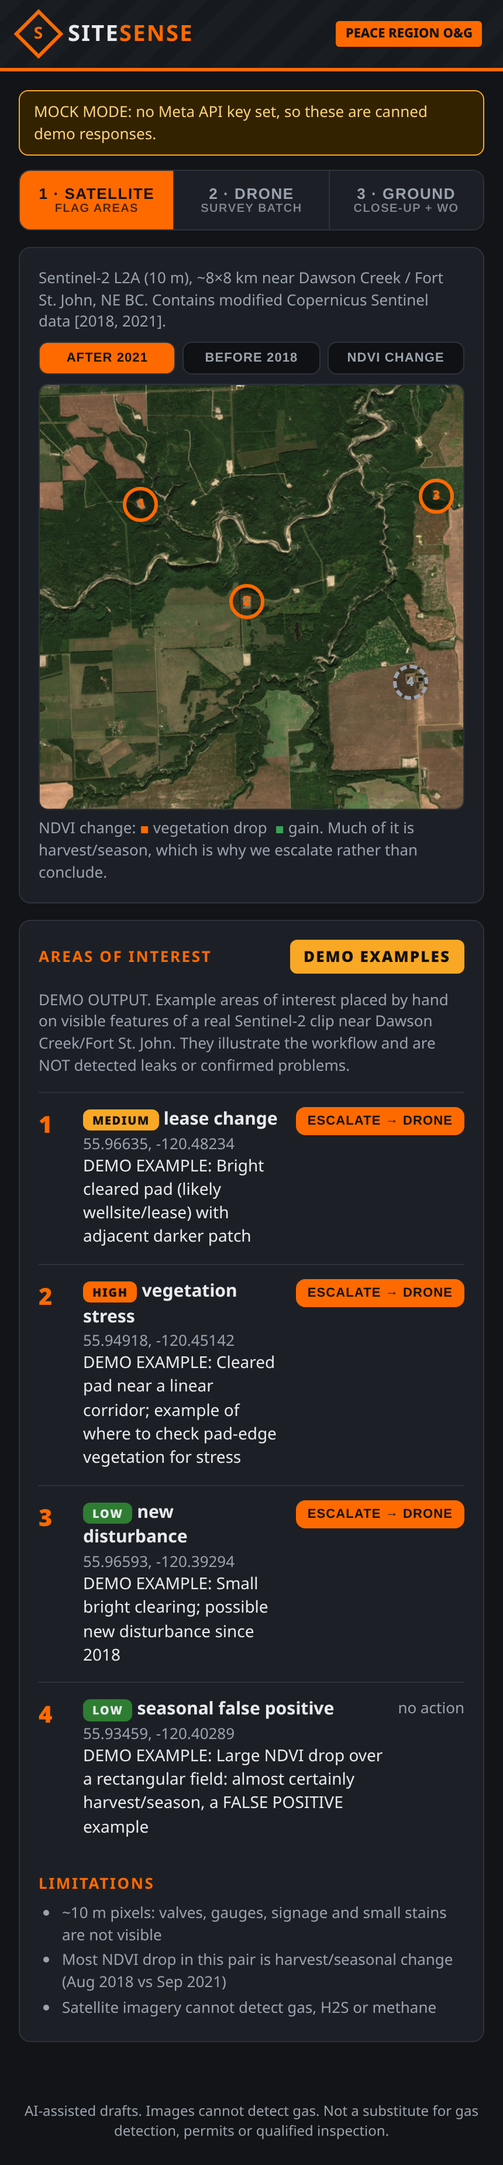
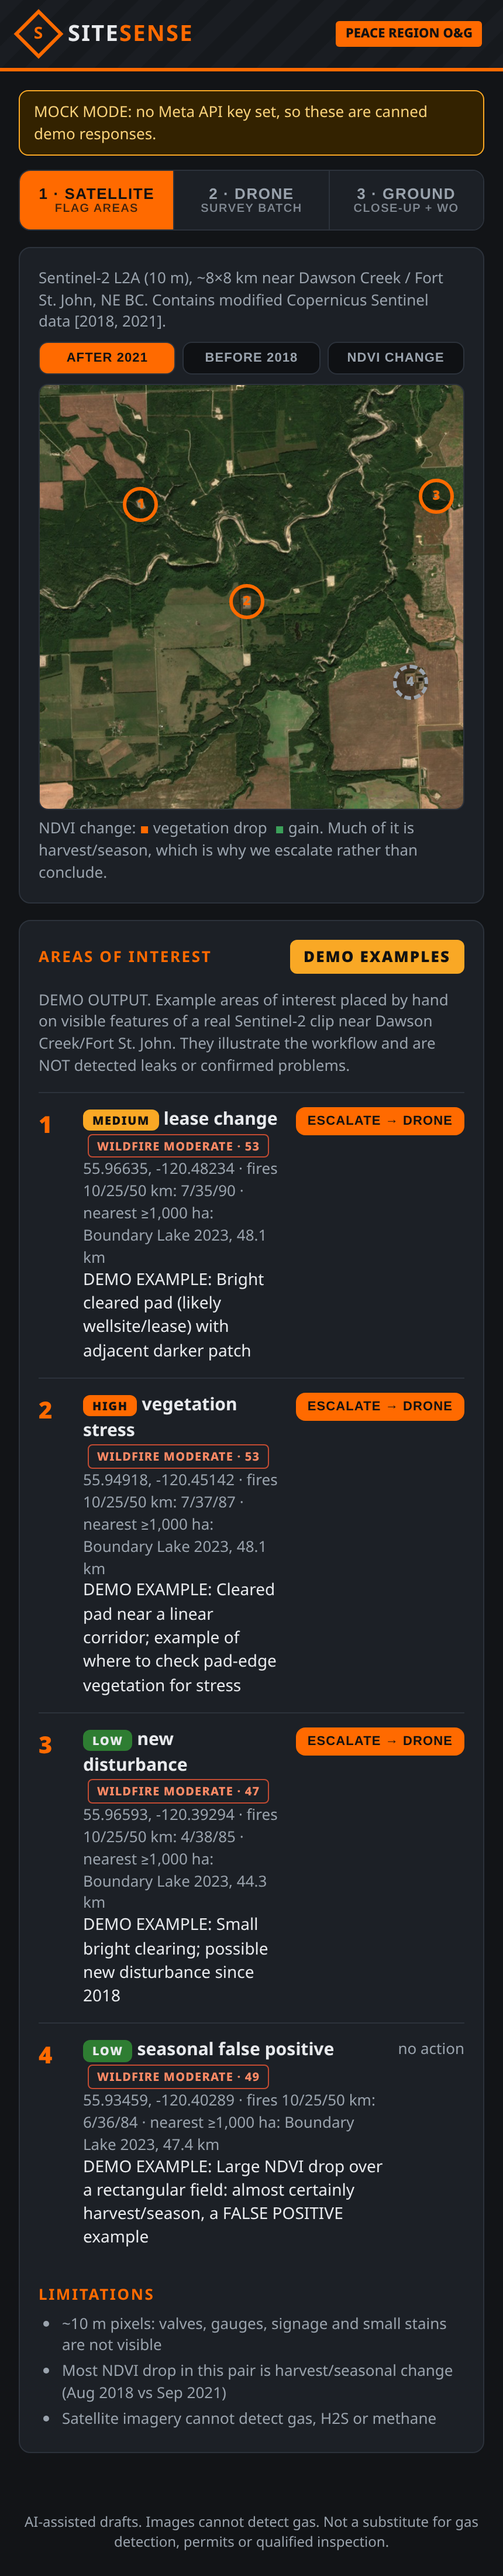
README: Emberline wildfire layer section; refresh screenshots

diff --git a/README.md b/README.md
@@ -99,6 +99,33 @@ pip install -r requirements-dev.txt
 pytest -q
 ```
 
+## Emberline wildfire layer
+
+SiteSense borrows the data and the per-town risk logic of **Emberline** (a BC wildfire hotspot and FireSmart planner) so every lease, AOI and work order knows its wildfire history. This matters in the Peace Region because the biggest BC fires of the decade burned through oil and gas country: Donnie Creek (2023, ~619,000 ha) and Nogah Creek (2024, ~508,000 ha).
+
+- **Data:** `data/bc_fires.geojson` (~1 MB) holds 4,535 BC fire origin points (≥ 1 ha) and 558 ignition hotspot cells, covering 2015–2025. The source is BC Wildfire Service *Historical Fire Incident Locations*, under the Open Government Licence – BC (credit in `samples/CREDITS.md`). To regenerate it, run `python tools/export_emberline.py <emberline>/src/data/catalog.json`.
+- **Risk module and API:** `firerisk.py` and `GET /api/risk?lat=55.76&lng=-120.24` return:
+  - fires and hectares within 10/25/50 km
+  - the human/lightning/unknown cause mix within 25 km
+  - the nearest fire of 1,000 ha or more, and the largest fire within 50 km
+  - a 0–100 score and a rating band (watch, moderate, high, very-high, extreme)
+
+  The weights were calibrated on Emberline's 63 town scores: 45 of 63 ratings match exactly and all 63 are within one band. It shows **historical exposure, not a forecast**, so always check the current BC Wildfire Service fire danger, bans and evacuation orders.
+- **Satellite:** each AOI gets a wildfire-risk badge. If a vegetation-drop AOI (vegetation stress, possible staining, new disturbance) sits inside or near a known fire's footprint, it is relabelled **"possible burn scar / fire recovery"** instead of a possible spill. Only fires up to the "after" image's year count. The footprint is approximated as a circle with the fire's area plus a 3 km margin, because the data has origin points, not perimeters. The bundled demo clip has no recorded fire under it, so its AOIs are not relabelled.
+- **Drone ranking (fire season, April–October):** when the survey's AOI has a location, findings that add fuel or an ignition source get a small bonus. These are leaks/stains, containment breaches, hot work, ignition sources, or a flare, vegetation, grass, slash or debris in the description. The bonus is +0.5 when exposure is high or worse, +0.25 when moderate, and 0 otherwise. It is smaller than one severity step, so a Critical finding is never outranked by a High one. The bonus is shown per finding (`fire_bonus`) and in `fire_context`, and it is off outside fire season.
+- **Work orders:** oil and gas work orders get a **Lease FireSmart** section, shown in the UI and the printable HTML. It covers:
+  - vegetation clearance around the wellhead and flare
+  - flare and hot-work checks
+  - pipeline right-of-way firebreaks
+  - overwintering (holdover) fires
+  - the evacuation and H2S muster and second egress
+
+  The checks are generic and defer to the operator's procedures and the rules that apply; they cite no regulation numbers.
+
+| AOI wildfire badges | Fire-season drone ranking | Lease FireSmart in the work order |
+|---|---|---|
+| ![AOI badges](docs/screenshot_4_wildfire_aoi_badges.png) | ![Drone ranking](docs/screenshot_5_wildfire_drone_ranking.png) | ![FireSmart](docs/screenshot_6_wildfire_firesmart.png) |
+
 ## Demo flow
 1. SAM 3.1 segments the object of interest
 2. Muse Spark returns a structured JSON diagnosis (oil & gas prompt + schema when that domain is selected)
